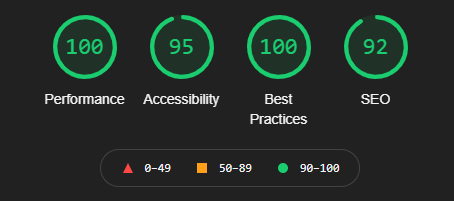
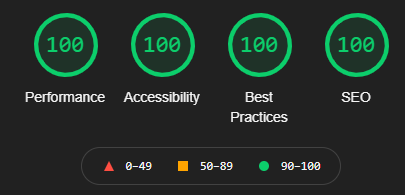
Upload mobile lighthouse scores
- Making the site mobile responsive upped all the scores to 100
- Best practices sometimes complains about lack of a favicon
- But that's Horiseon's problem ¯\_(ツ)_/¯

diff --git a/README.md b/README.md
@@ -14,6 +14,9 @@ The first assignment for the Rutgers coding bootcamp: optimizing the landing pag
 
 2. [The Results](#the-results)
 
+   -  [Desktop](#desktop)
+   -  [Mobile](#mobile)
+
 3. [The How](#the-how)
 
 4. [Possible Improvements](#possible-improvements)
@@ -30,7 +33,13 @@ The first assignment for the Rutgers coding bootcamp: optimizing the landing pag
 
 ## The Results
 
+### Desktop
+
 ![Site GIF](./screens/horiseon.desktop.gif)
+
+### Mobile
+
+![Site GIF](./screens/horiseon.mobile.gif)
 
 ### PageSpeed Insights scores before optimization... 💀
 
